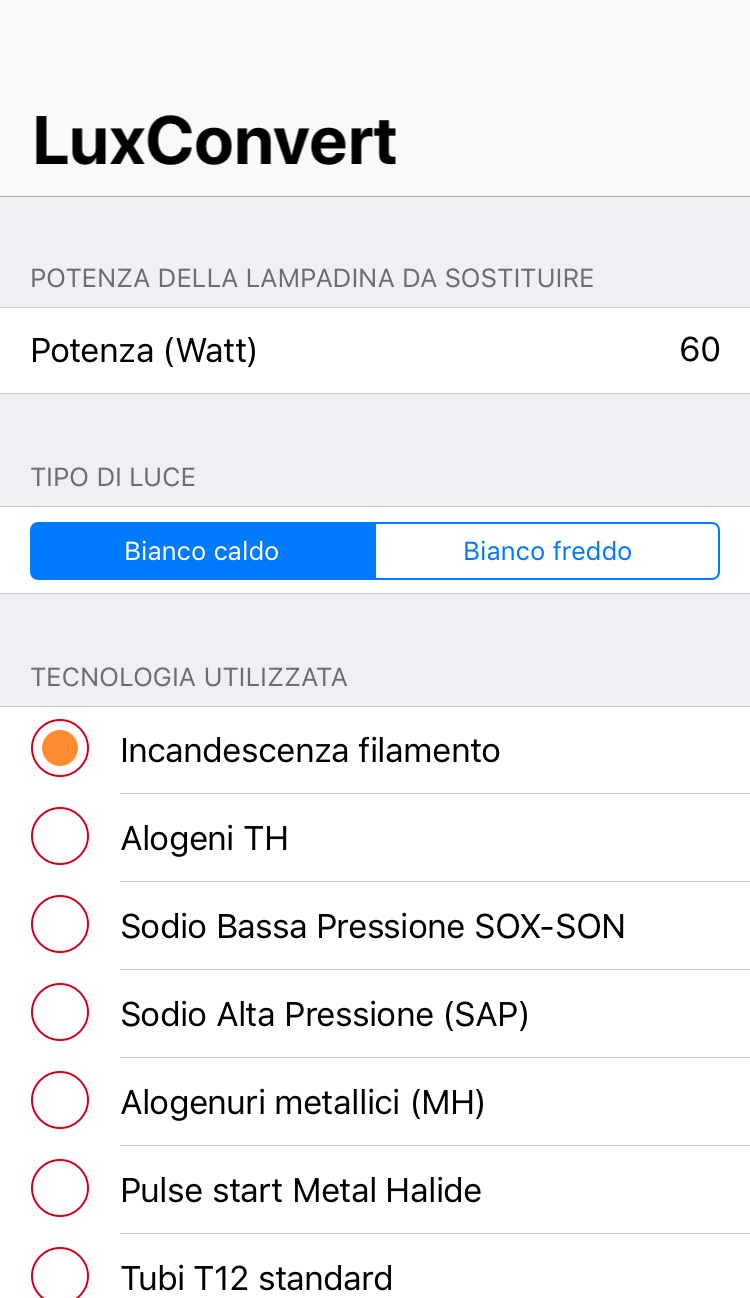
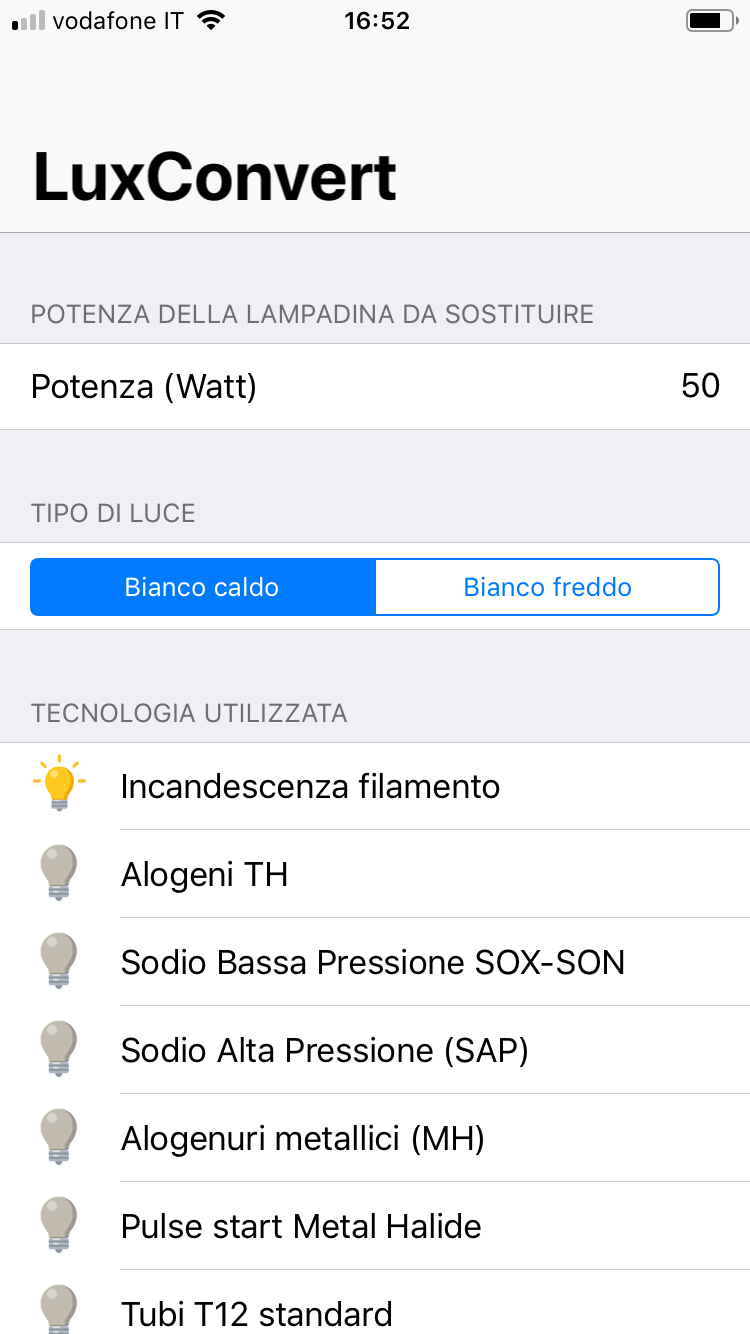
changed check image, added calc options

diff --git a/LedConvert/ViewController.swift b/LedConvert/ViewController.swift
@@ -14,6 +14,10 @@ class ViewController: FormViewController {
     var colore:Double?     //Luce calda o luce fredda
     var lux:Double?        //Quantità di luce sviluppata dalla lampadina precedente
     
+    var numero_lampadine:Double?
+    var ore_giornaliere:Double?
+    var costo_elettrico_medio:Double? // €/KWh
+    
     override func viewDidLoad() {
         super.viewDidLoad()
         
@@ -51,24 +55,53 @@ class ViewController: FormViewController {
             }
         }
         
-            form +++ Section()
+        form +++ Section("Calcolo Risparmio")
+            <<< IntRow() {
+                $0.title = "Lampadine LED disponibili"
+                $0.value = 10
+                $0.tag = "numero_lampadine"
+            }
+            <<< IntRow() {
+                $0.title = "Ore di utilizzo giornaliere"
+                $0.value = 8
+                $0.tag = "ore_giornaliere"
+            }
+            <<< DecimalRow() {
+                $0.title = "Costo elettricità (€/KWh)"
+                $0.value = 0.22
+                $0.tag = "costo_elettrico_medio"
+            }
+        
+        form +++ Section()
             <<< ButtonRow() { (row: ButtonRow) -> Void in
                 row.title = "Calcola"
                 }
                 .onCellSelection { [weak self] (cell, row) in
                     
                     let p: IntRow? = self?.form.rowBy(tag: "potenza")
-                    self?.potenza = Double((p?.value)!)
                     
                     let t:SegmentedRow<String> = (self?.form.rowBy(tag: "tipo_di_luce"))!
-                    self?.colore = (t.value=="Bianco caldo") ? 70.0 : 80.0
+                    
+                    let n: IntRow? = self?.form.rowBy(tag: "numero_lampadine")
+                    
+                    let h: IntRow? = self?.form.rowBy(tag: "ore_giornaliere")
+                    
+                    let c: DecimalRow? = self?.form.rowBy(tag: "costo_elettrico_medio")
+                    
+                    if p?.value==nil || n?.value==nil || h?.value==nil || c?.value==nil || self?.lux==nil {
+                        self?.showAlert(title: "Errore", message: "Compila tutti i campi")
+                    } else {
+                        self?.potenza               = Double((p?.value)!)
+                        self?.colore                = (t.value=="Bianco caldo") ? 70.0 : 80.0
+                        self?.numero_lampadine      = Double((n?.value)!)
+                        self?.ore_giornaliere       = Double((h?.value)!)
+                        self?.costo_elettrico_medio = Double((c?.value)!)
 
-                    self?.performSegue(withIdentifier: "calculateSegue", sender: self)
+                        self?.performSegue(withIdentifier: "calculateSegue", sender: self)
+                    }
                     
         }
-        
-        animateScroll = true
-        
+                
     }
     
     // Imposta la variabile quando viene selezionato un valore
@@ -103,11 +136,22 @@ class ViewController: FormViewController {
     override func prepare(for segue: UIStoryboardSegue, sender: Any?) {
         if segue.identifier == "calculateSegue"{
             if let destinationVC = segue.destination as? CalcViewController {
-                destinationVC.potenza = potenza
-                destinationVC.colore = colore
-                destinationVC.lux = lux
+                destinationVC.potenza               = potenza
+                destinationVC.colore                = colore
+                destinationVC.lux                   = lux
+                destinationVC.numero_lampadine      = numero_lampadine
+                destinationVC.ore_giornaliere       = ore_giornaliere
+                destinationVC.costo_elettrico_medio = costo_elettrico_medio
             }
         }
+    }
+    
+    func showAlert(title:String, message:String) {
+        let alertController = UIAlertController(title: title, message: message, preferredStyle: .alert)
+        let defaultAction = UIAlertAction(title: "OK", style: .default, handler: nil)
+        alertController.addAction(defaultAction)
+        present(alertController, animated: true)
+        
     }
     
 }

diff --git a/LedConvert/CalcViewController.swift b/LedConvert/CalcViewController.swift
@@ -13,12 +13,11 @@ class CalcViewController: FormViewController {
     var potenza:Double!    //Potenza (Watt) lampadina originale
     var colore:Double!     //Luce calda o luce fredda
     var lux:Double!        //Quantità di luce sviluppata dalla lampadina precedente
-    
-    let numero_lampadine      = 10.0
-    let ore_giornaliere       = 8.0
-    let anno                  = 0.365
-    let costo_elettrico_medio = 0.22 // €/KWh
-    
+    var numero_lampadine:Double!
+    var ore_giornaliere:Double!
+    var costo_elettrico_medio:Double! // €/KWh
+    let anno = 0.365
+
     override func viewDidLoad() {
         super.viewDidLoad()
         
@@ -31,7 +30,10 @@ class CalcViewController: FormViewController {
         let risparmio_eur_max   = ((potenza - potenza_led_min) * const)
         let riparmio_eur_medio  = (risparmio_eur_min + risparmio_eur_max) / 2
         
-        form +++ Section("Puoi utilizzare un dispositivo LED con potenza compresa tra")
+        form +++ Section(
+            header: "Potenza",
+            footer: "Puoi utilizzare un dispositivo LED con potenza compresa tra questi due valori"
+            )
             
             <<< LabelRow () {
                 $0.title = "Potenza minima"
@@ -44,7 +46,8 @@ class CalcViewController: FormViewController {
         }
         
         form +++ Section(
-            "Risparmio annuo approssimato per \(String(format: "%.0f", numero_lampadine)) lampade LED accese per \(String(format: "%.0f", ore_giornaliere)) ore al giorno con un costo dell'energia elettrica medio di \(costo_elettrico_medio)€/KWh"
+            header: "Risparmio",
+            footer: "Risparmio annuo approssimato per \(String(format: "%.0f", numero_lampadine)) lampade LED accese per \(String(format: "%.0f", ore_giornaliere)) ore al giorno con un costo dell'energia elettrica medio di \(costo_elettrico_medio ?? 0.22)€/KWh"
             )
     
             <<< LabelRow () {
@@ -53,7 +56,7 @@ class CalcViewController: FormViewController {
             }
         
         form +++ Section(
-            "Le formule utilizzate sono tratte dagli studi degli scienziati della Lawrence Berkeley Laboratory sullo spettro luminoso"
+            footer: "Le formule utilizzate sono tratte dagli studi degli scienziati della Lawrence Berkeley Laboratory sullo spettro luminoso"
             )
             <<< ButtonRow() { (row: ButtonRow) -> Void in
                 row.title = "Maggiori Informazioni"

diff --git a/LedConvert/ImageCheck.swift b/LedConvert/ImageCheck.swift
@@ -28,12 +28,12 @@ public class ImageCheckCell<T: Equatable> : Cell<T>, CellType {
     
     /// Image for selected state
     lazy public var trueImage: UIImage = {
-        return UIImage(named: "selected")!
+        return UIImage(named: "bulb_on")!
     }()
     
     /// Image for unselected state
     lazy public var falseImage: UIImage = {
-        return UIImage(named: "unselected")!
+        return UIImage(named: "bulb_off")!
     }()
     
     public override func update() {
